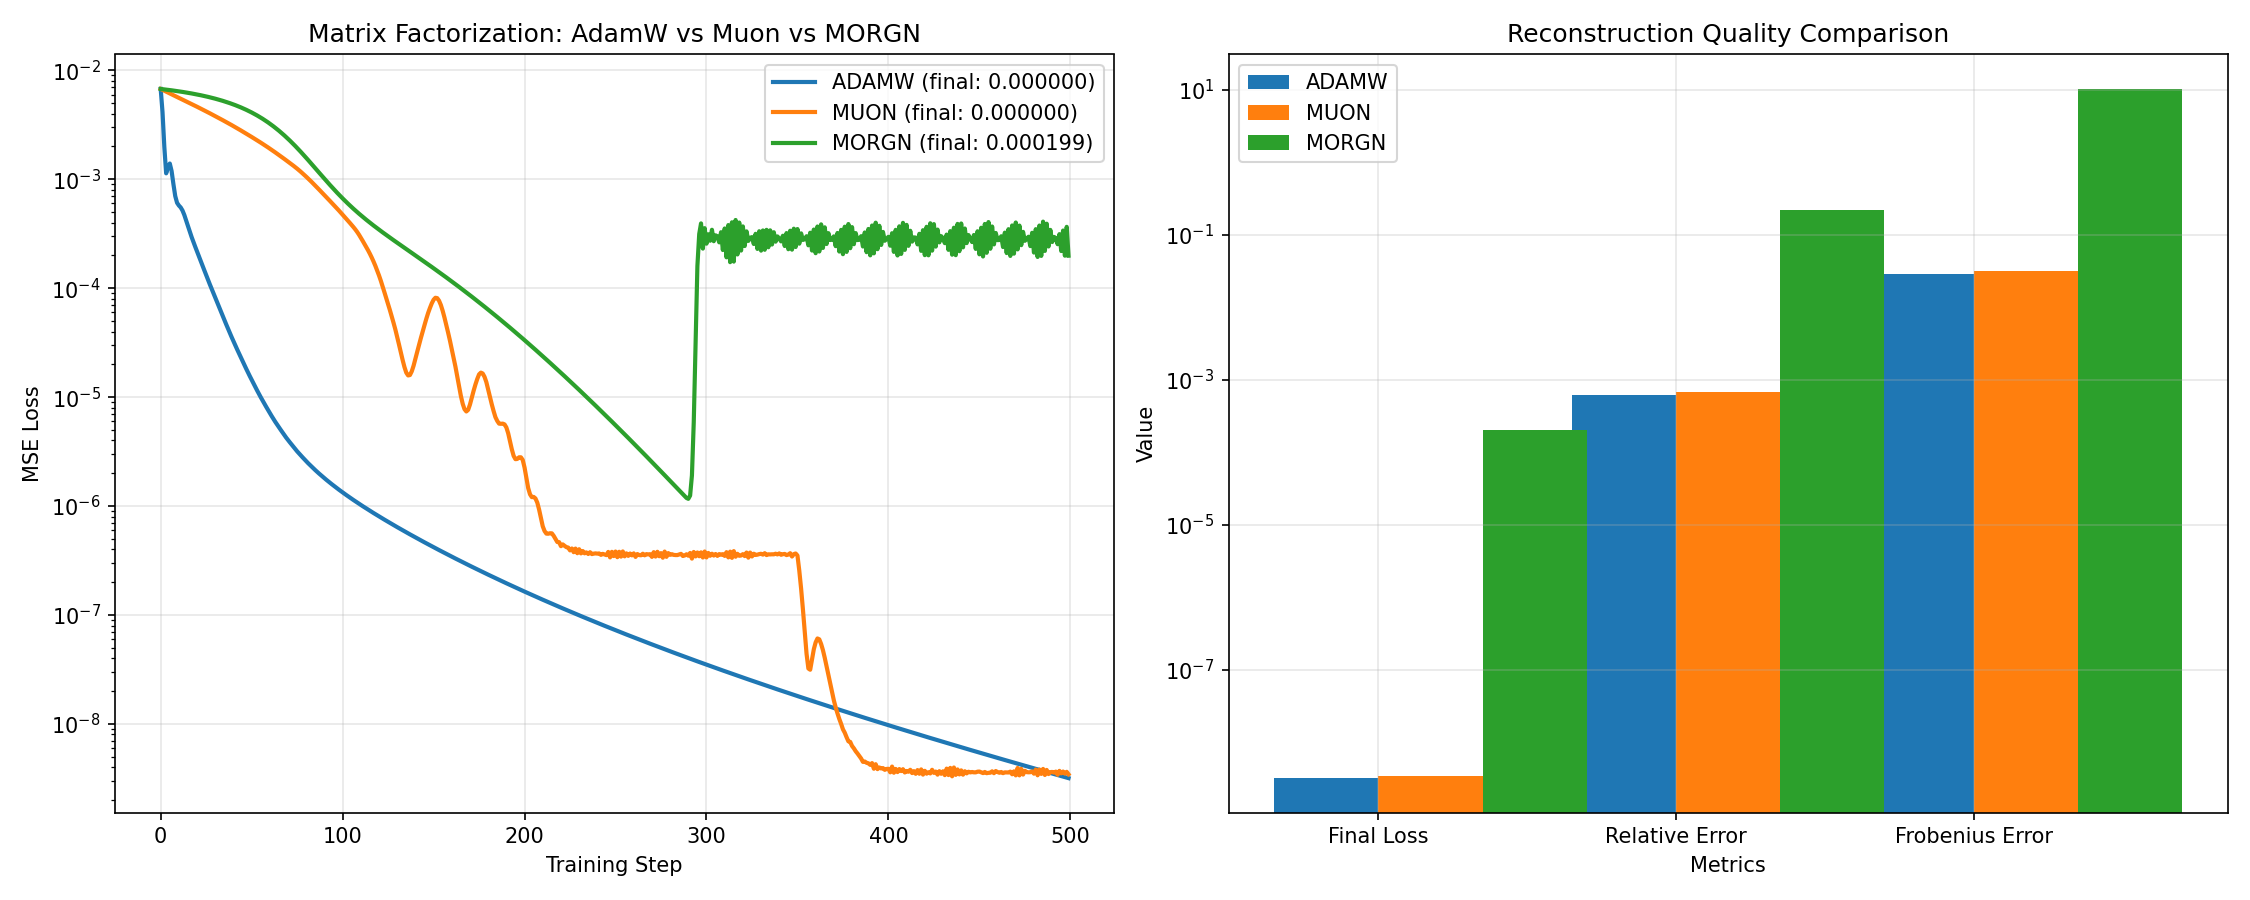
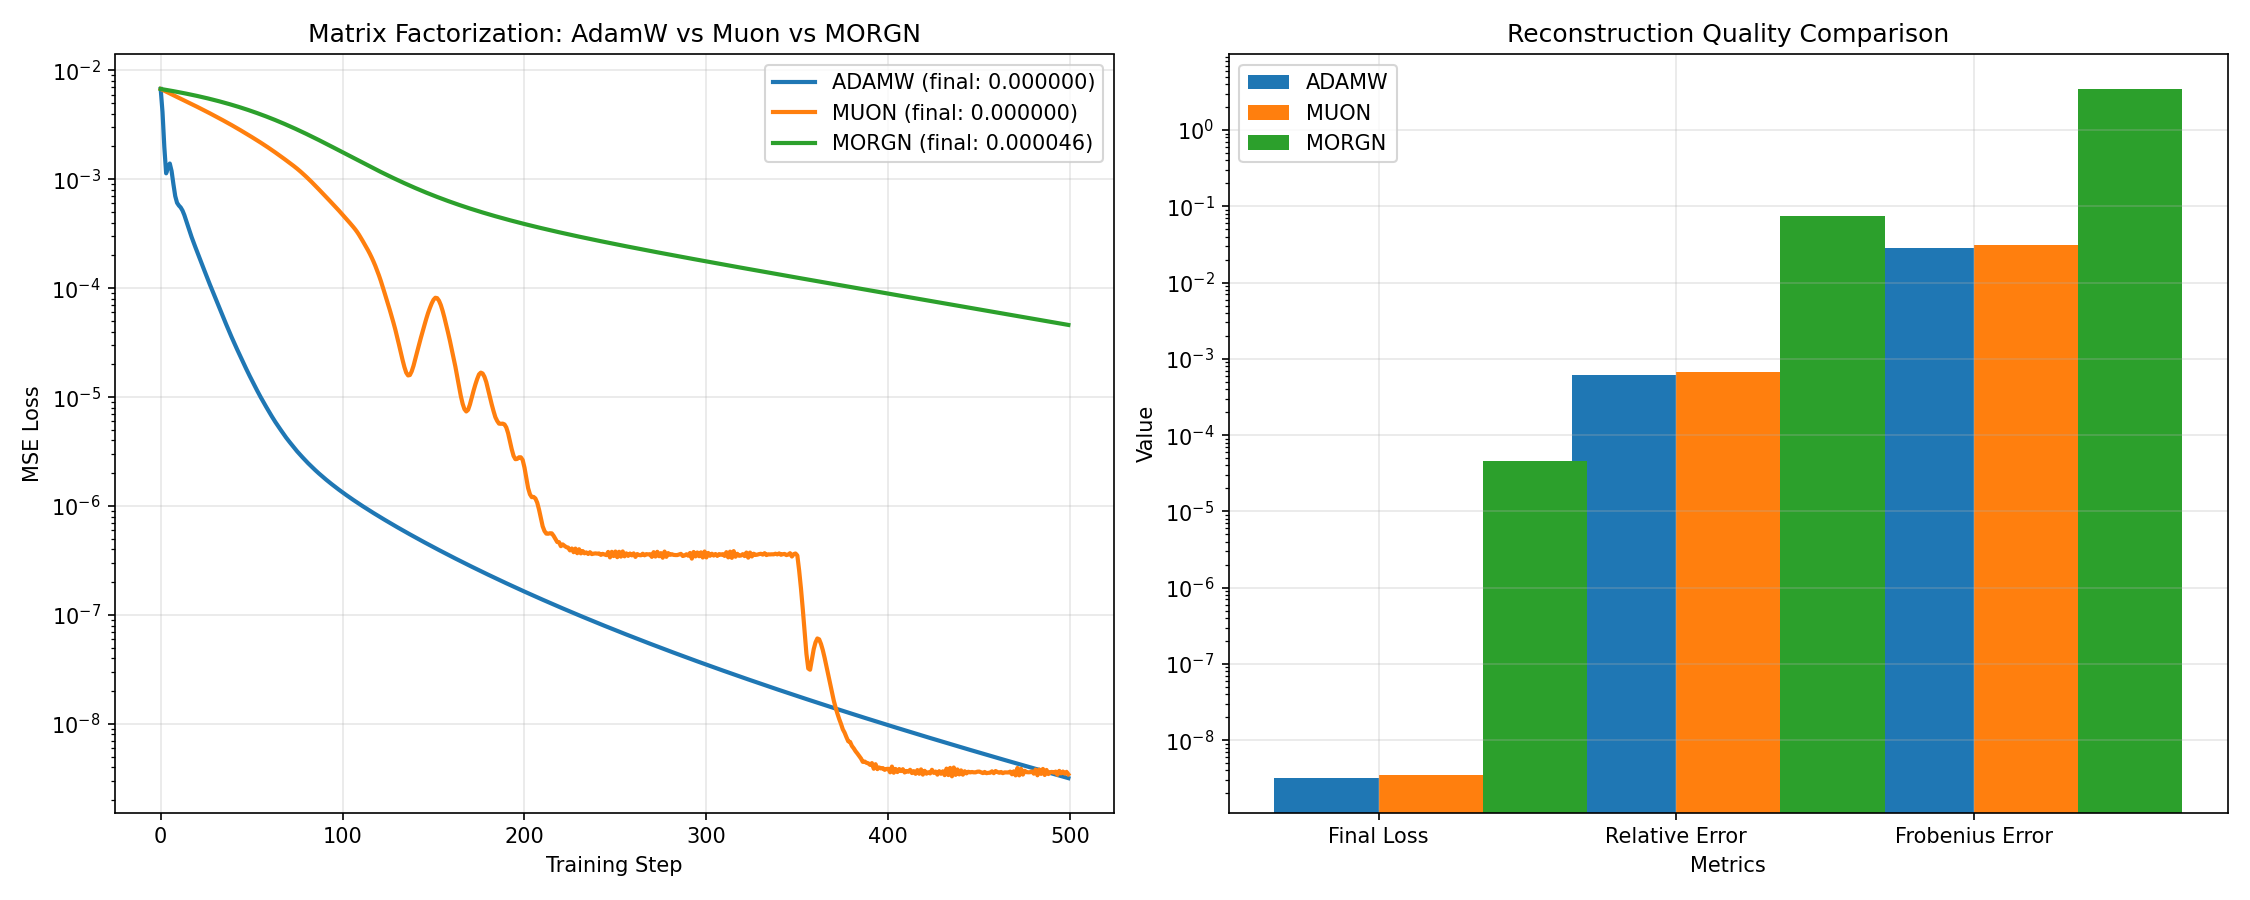
jos: adjust MORGN learning rate param, cleanup, comments

diff --git a/examples/toy_train_jos.py b/examples/toy_train_jos.py
@@ -277,17 +277,13 @@ class Muon(torch.optim.Optimizer):
 
 class MORGN(torch.optim.Optimizer):
     """
-    MORGN - MORe Generic Newton (placeholder implementation)
-    
-    This is a stub implementation that will be expanded later.
-    For now, it mimics Muon's interface but uses simple SGD internally.
+    MORGN - Momentum Orthogonalization via Recursive Gauss-Newton (placeholder implementation)
     
     Arguments:
         morgn_params: The parameters to be optimized by MORGN (same as muon_params)
         lr: The learning rate
         momentum: The momentum used by the internal SGD (0.95 is a good default)
         nesterov: Whether to use Nesterov-style momentum (recommended)
-        ns_steps: Number of Newton-Schulz iterations (placeholder, not used yet)
         adamw_params: Parameters to be optimized by AdamW fallback
         adamw_betas: The betas for the internal AdamW
         adamw_eps: The epsilon for the internal AdamW
@@ -301,7 +297,6 @@ class MORGN(torch.optim.Optimizer):
         morgn_params=None,
         momentum: float = 0.95,
         nesterov: bool = True,
-        ns_steps: int = 5,
         adamw_params=None,
         adamw_betas: tuple[float, float] = (0.9, 0.95),
         adamw_eps: float = 1e-8,
@@ -317,7 +312,6 @@ class MORGN(torch.optim.Optimizer):
             wd=wd,
             momentum=momentum,
             nesterov=nesterov,
-            ns_steps=ns_steps,
             adamw_betas=adamw_betas,
             adamw_eps=adamw_eps,
         )
@@ -358,7 +352,7 @@ class MORGN(torch.optim.Optimizer):
             wd = group["wd"]
             momentum = group["momentum"]
 
-            # MORGN implementation (stub - currently just SGD with momentum)
+            # MORGN implementation
             for p in params:
                 g = p.grad
                 if g is None:
@@ -376,8 +370,7 @@ class MORGN(torch.optim.Optimizer):
                 # For now, disable Nesterov to debug the basic momentum issue
                 update = buf
 
-                # MORGN stub is unstable - use much smaller learning rate for debugging
-                adjusted_lr = lr * 0.01
+                adjusted_lr = lr # use much smaller learning rate for debugging if needed
 
                 # Apply weight decay
                 p.data.mul_(1 - lr * wd)

diff --git a/examples/simple_demo.py b/examples/simple_demo.py
@@ -178,12 +178,6 @@ def main():
     for step in [0, 10, 20, 30, 40, 49]:
         if step < min(len(losses) for losses in results.values()):
             print(f"  {step:2d} | {results['adamw'][step]:7.4f} | {results['muon'][step]:7.4f} | {results['morgn'][step]:7.4f}")
-    
-    print("\n" + "="*60)
-    print("Key Insight: Different optimizers show varying performance")
-    print("on this toy problem. MORGN is currently a stub (SGD+momentum)")
-    print("and will be improved to demonstrate novel optimization techniques.")
-    print("="*60)
 
 if __name__ == "__main__":
     main()
